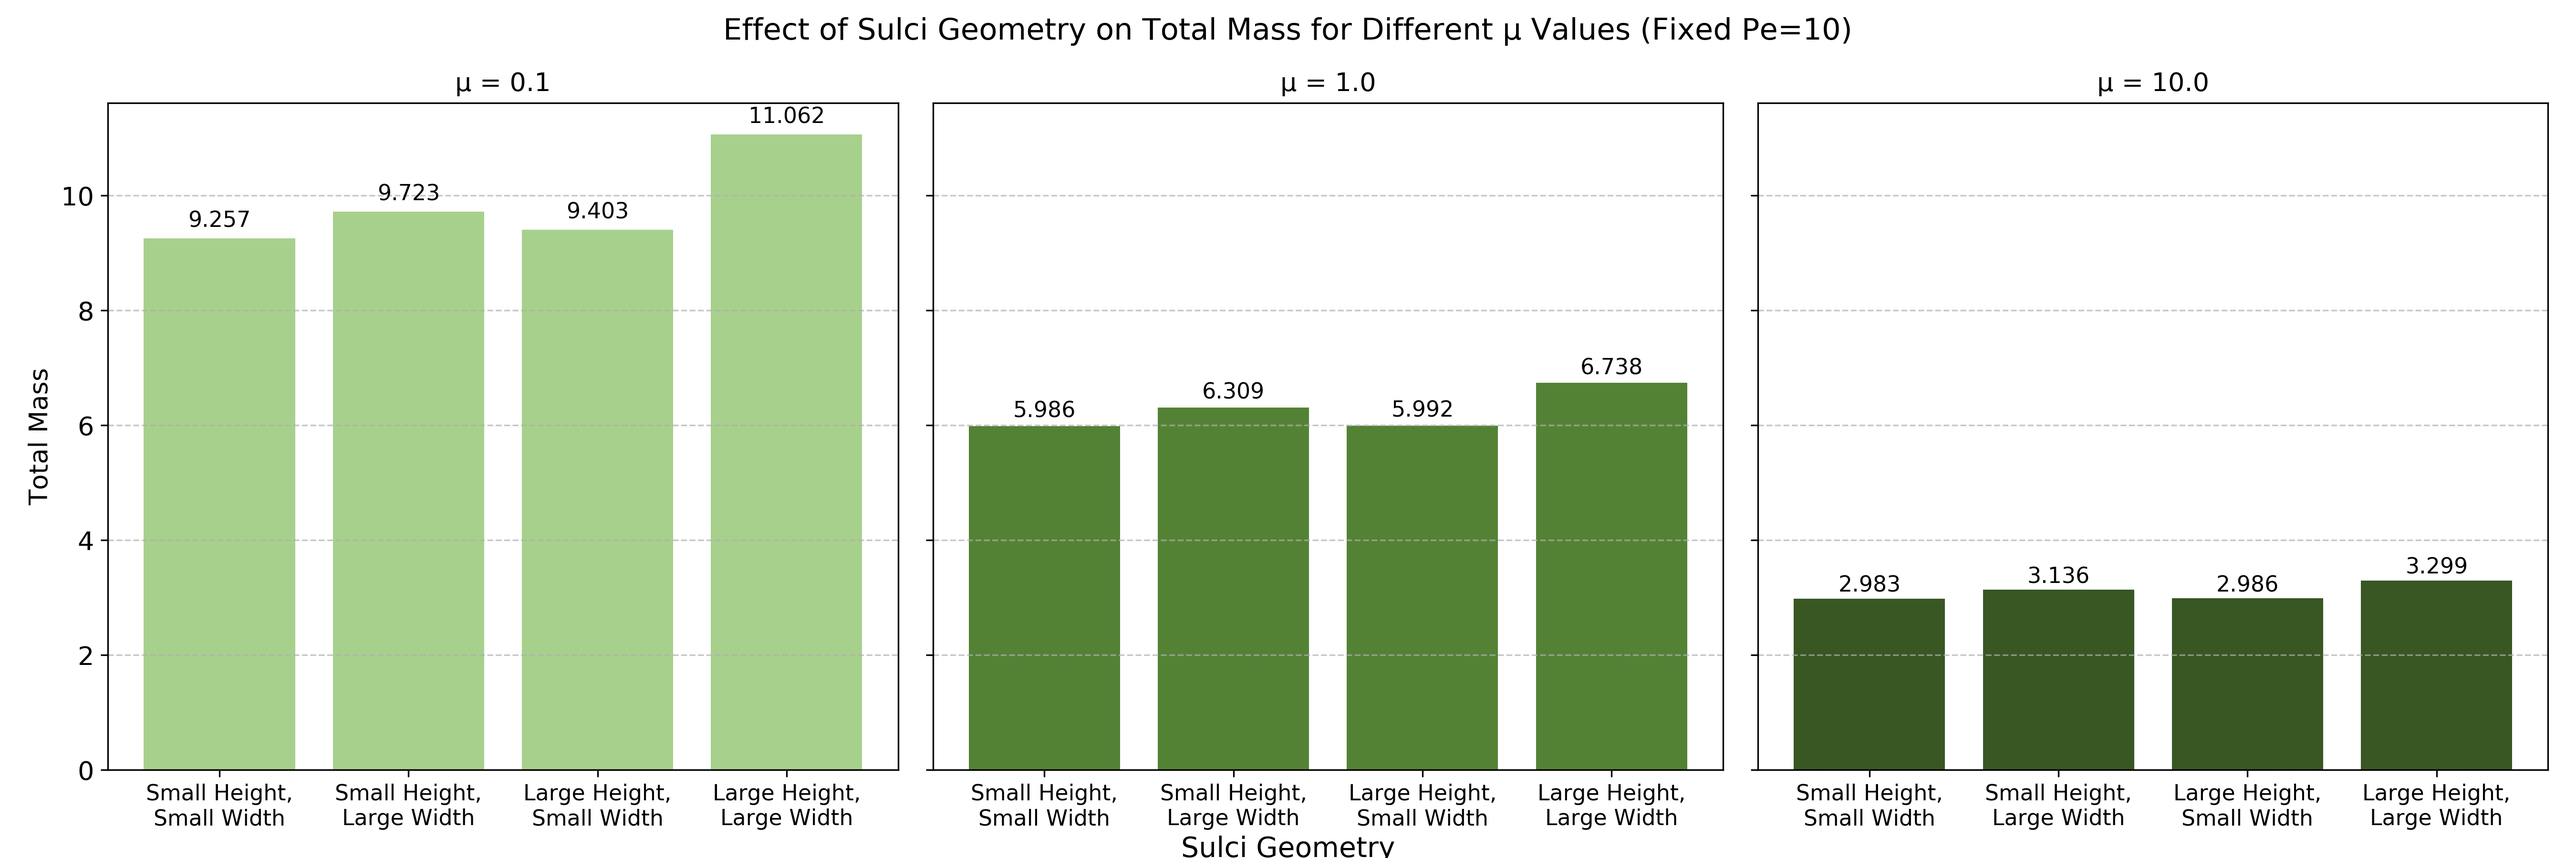
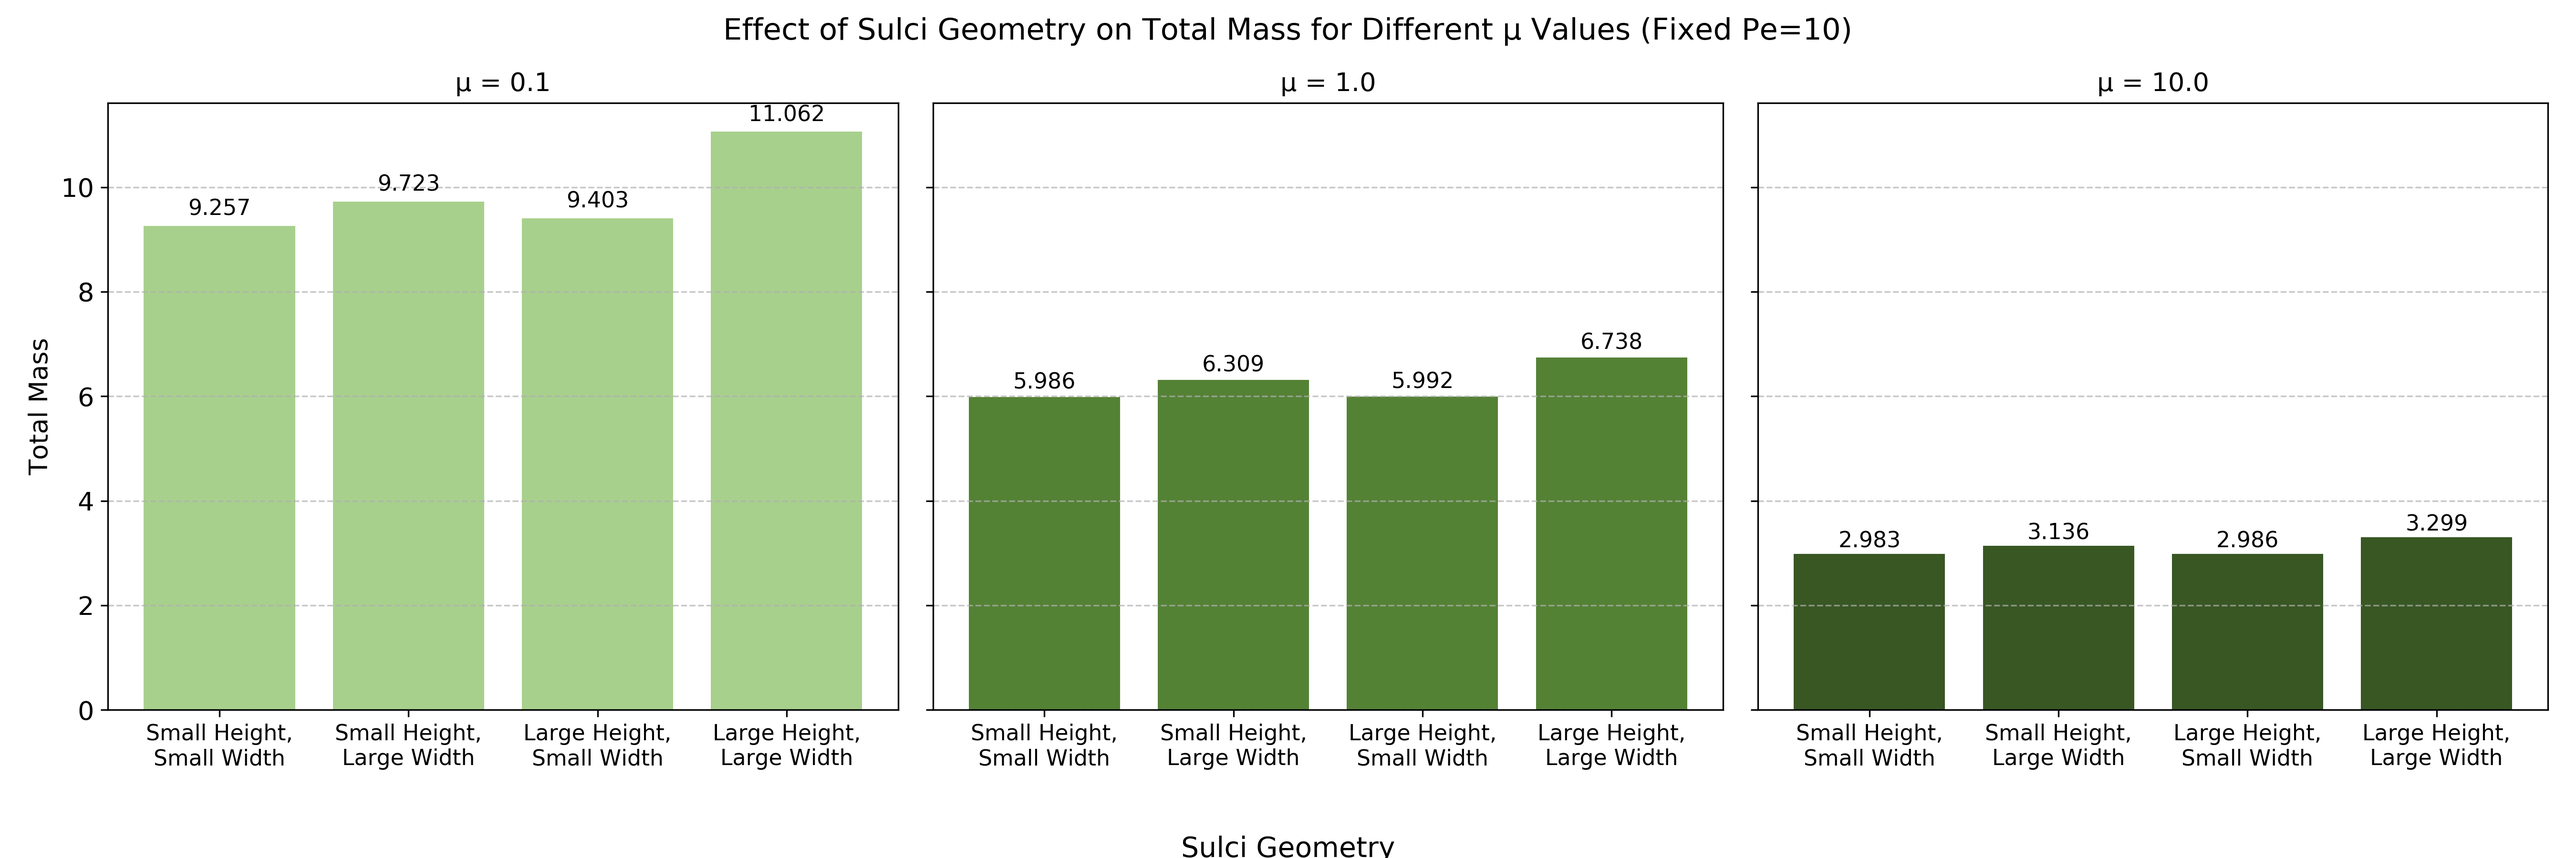
updating plotts

diff --git a/sulci_analysis.py b/sulci_analysis.py
@@ -451,14 +451,12 @@ def compare_results_dual(results, output_dir, pe_values, mu_values, fixed_pe, fi
         # Adjust x-tick label size if needed
         ax.tick_params(axis='x', labelsize=11)
 
-    # Add a common x-axis label
-    fig1.text(0.5, 0.01, "Sulci Geometry", ha='center', va='center', fontsize=14)    
-
     # Set overall title
     fig1.suptitle(f"Effect of Sulci Geometry on Total Mass for Different Pe Values (Fixed μ={fixed_mu})", fontsize=15)
 
-    # Adjust layout
-    plt.tight_layout(rect=[0, 0.07, 1, 0.95])   
+    # Adjust layout and add x-label
+    plt.xlabel("Sulci Geometry")
+    plt.tight_layout(rect=[0, 0, 1, 0.95])  
 
     # Save the plot
     plt.savefig(os.path.join(comparison_dir, "mass_comparison_panels_pe.png"), dpi=300)
@@ -494,14 +492,12 @@ def compare_results_dual(results, output_dir, pe_values, mu_values, fixed_pe, fi
         # Adjust x-tick label size if needed
         ax.tick_params(axis='x', labelsize=11)
 
-    # Add a common x-axis label
-    fig2.text(0.5, 0.01, "Sulci Geometry", ha='center', va='center', fontsize=14)    
-
     # Set overall title
     fig2.suptitle(f"Effect of Sulci Geometry on Total Mass for Different μ Values (Fixed Pe={fixed_pe})", fontsize=15)
 
-    # Adjust layout
-    plt.tight_layout(rect=[0, 0.07, 1, 0.95]) 
+    # Adjust layout and add x-label
+    plt.xlabel("Sulci Geometry")
+    plt.tight_layout(rect=[0, 0, 1, 0.95]) 
 
     # Save the plot
     plt.savefig(os.path.join(comparison_dir, "mass_comparison_panels_mu.png"), dpi=300)
